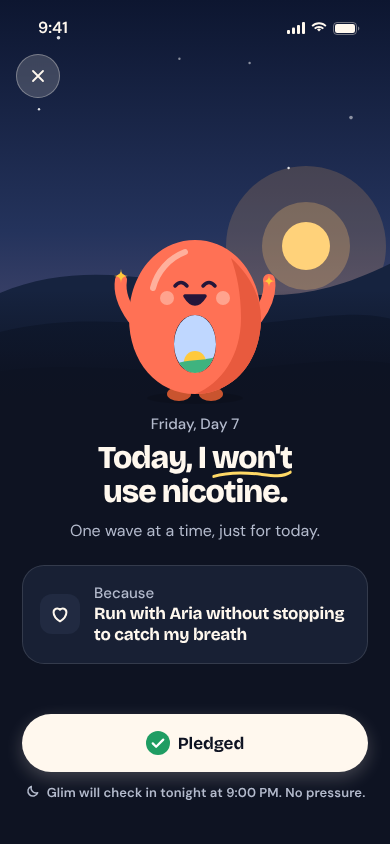
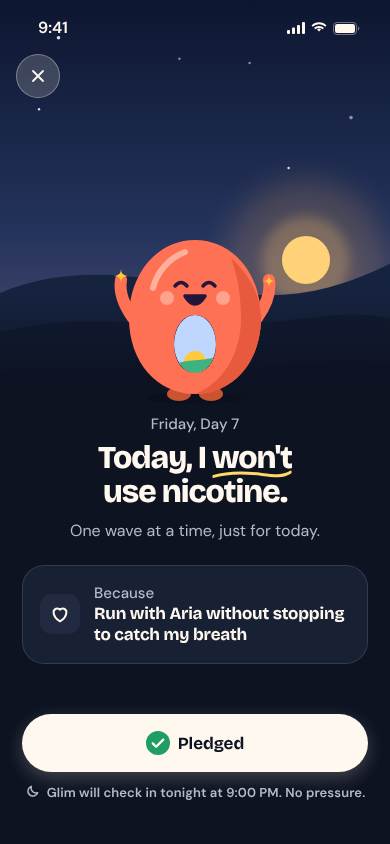
Rounds 7-8 work in progress
Claude-Session: https://claude.ai/code/session_01DZ7ApmrncqosUtJWfkxY6v

Changed region(s): [[0.6154, 0.1848, 0.9538, 0.3697], [0.9538, 0.2464, 0.9846, 0.2773], [0.5846, 0.2464, 0.6154, 0.2773]]

diff --git a/cook/site/screens/053-pledge.html b/cook/site/screens/053-pledge.html
@@ -1,13 +1,11 @@
 <!doctype html><html lang="en"><head><meta charset="utf-8"><meta name="viewport" content="width=390">
 <title>053 Daily pledge</title>
-<meta name="motion" content="Dawn scene fades in (in dark mode the same scene is pre-dawn: a deep night wash with a few still stars over a low, dimmed sun, ending in clean ground under the title), Xero settles onto the hill (900ms) then bobs; date, pledge (underline under 'won't'), one quiet line, reason card and the hold button arrive in order (90ms stagger). At 1.5s the button is held for 1s (fill sweeps left to right, light ticking haptic), turns green 'Pledged' with a success haptic; the sun rises 40px and the haze thins over 1.6s, Xero swaps to cheer and re-settles, and the line 'Glim will check in tonight at 9:00 PM. No pressure.' fades in under the button.">
+<meta name="motion" content="Light: the dawn scene (deeper hill silhouettes) fades in with a soft cream glow behind Xero; dark: a true navy pre-dawn sky (the kit's night sky, dawn variant: still stars, navy hills) with the sun waiting on the horizon at the right. Xero settles onto the hill (900ms) then bobs; date, pledge (underline under 'won't'), one quiet line, reason card and the hold button arrive in order (90ms stagger). At 1.5s the button is held for 1s (fill sweeps left to right, light ticking haptic), turns to 'Pledged' with a green check and a success haptic; the sun rises over 1.6s (light: up and to the right, ending 24px in from the edge with a crisp cream rim, the haze thinning; dark: 40px up off the horizon), Xero swaps to cheer and re-settles, and the line 'Glim will check in tonight at 9:00 PM. No pressure.' fades in under the button.">
 <link rel="stylesheet" href="../kit/kit.css">
 <script src="../kit/chars.js"></script><script src="../kit/kit.js"></script>
 <style>
   .scene { position: absolute; left: 0; right: 0; top: 0; height: 420px; overflow: hidden; }
   .scene .fade { position: absolute; left: 0; right: 0; bottom: 0; height: 70px; background: linear-gradient(to bottom, color-mix(in srgb, var(--g) 0%, transparent), var(--g)); }
-  .scene .wash { position: absolute; inset: 0; display: none; background: linear-gradient(to bottom, rgba(14,19,34,.94) 0%, rgba(14,19,34,.7) 14%, rgba(14,19,34,.25) 24%, rgba(14,19,34,0) 30%, rgba(14,19,34,0) 64%, rgba(14,19,34,.3) 76%, rgba(14,19,34,.7) 88%); }
-  .scene .stars { position: absolute; left: 0; right: 0; top: 0; height: 120px; display: none; background-image: radial-gradient(1.6px 1.6px at 62px 96px, #FFF8EE 60%, transparent), radial-gradient(1.3px 1.3px at 148px 70px, #FFF8EE 60%, transparent), radial-gradient(1.5px 1.5px at 262px 92px, #FFF8EE 60%, transparent), radial-gradient(1.2px 1.2px at 318px 64px, #FFF8EE 60%, transparent), radial-gradient(1.4px 1.4px at 30px 104px, #FFF8EE 60%, transparent); opacity: .8; }
   [data-theme="dark"] .scene .fade { height: 130px; background: linear-gradient(to bottom, color-mix(in srgb, var(--g) 0%, transparent), var(--g) 82%); }
   /* light: a soft cream glow behind Xero lifts him off the deeper hills */
   .glow { position: absolute; left: 50%; top: 184px; width: 330px; height: 250px; margin-left: -165px; border-radius: 50%; background: radial-gradient(closest-side, rgba(255,247,230,.95), rgba(255,247,230,.62) 52%, rgba(255,247,230,0)); pointer-events: none; }
@@ -40,7 +38,7 @@
 </style>
 </head><body>
 <div class="screen" data-ground="apricot" data-status="on-art" id="sc">
-  <div class="scene" id="scene" data-fade><div class="wash"></div><div class="stars"></div><div class="fade"></div></div>
+  <div class="scene" id="scene" data-fade><div class="fade"></div></div>
   <div class="glow" data-fade style="--d:200ms"></div>
   <div class="xero" data-settle style="--i:1"><div class="bob" id="xero"></div></div>
   <div class="nav"><button class="icon-btn on-art" aria-label="Close" data-ic="close"></button></div>

diff --git a/cook/site/screens/009-onboarding-nrt.html b/cook/site/screens/009-onboarding-nrt.html
@@ -47,7 +47,7 @@
   <div class="q">
     <h1 class="t-large" data-a>Want to use nicotine replacement?</h1>
     <div class="ev" data-a style="--i:1">
-      <p class="t-body muted">It raises your chances of quitting by 50 to 60%.</p>
+      <p class="t-body muted">It raises your odds of quitting by 50 to 60%.</p>
       <a class="source"><span data-icon="note"></span>Cochrane review, 2018 (NRT vs no NRT)</a>
     </div>
     <div class="ev" data-a style="--i:2">
